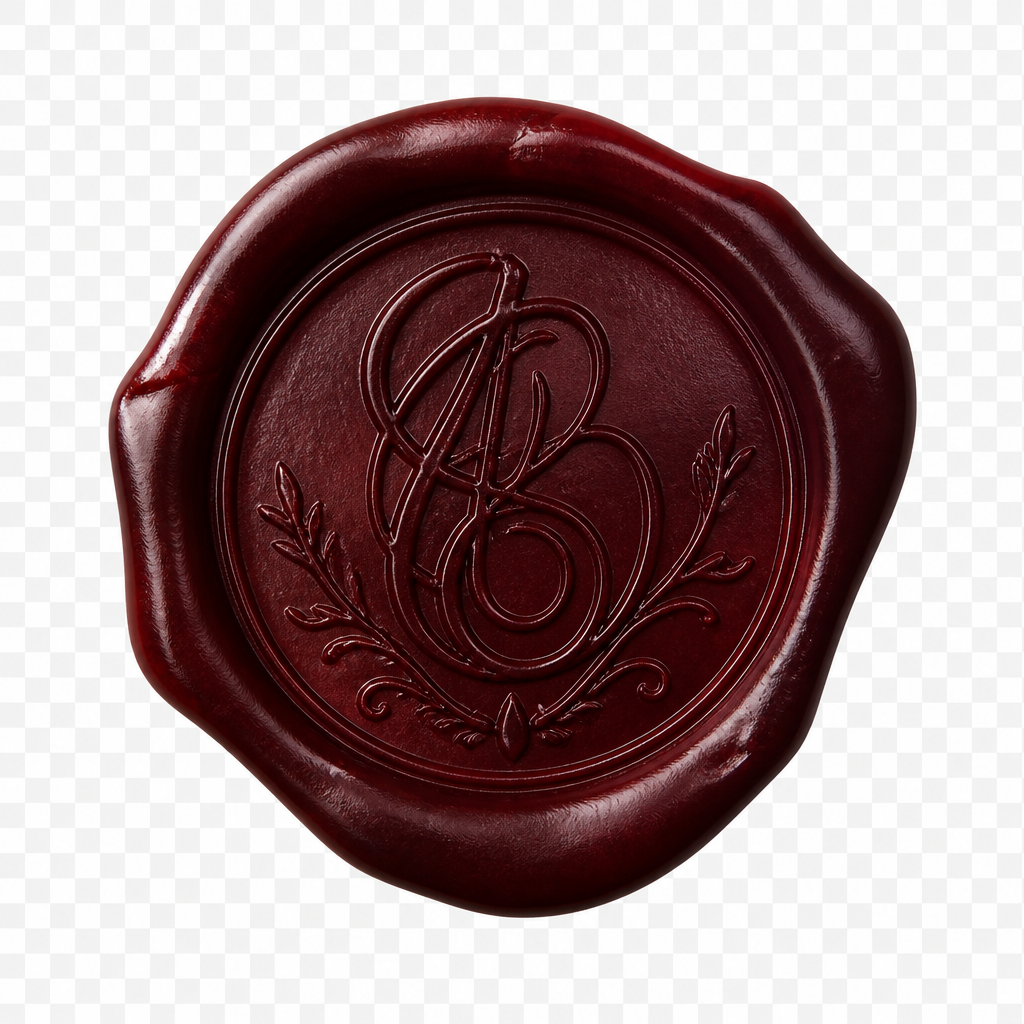
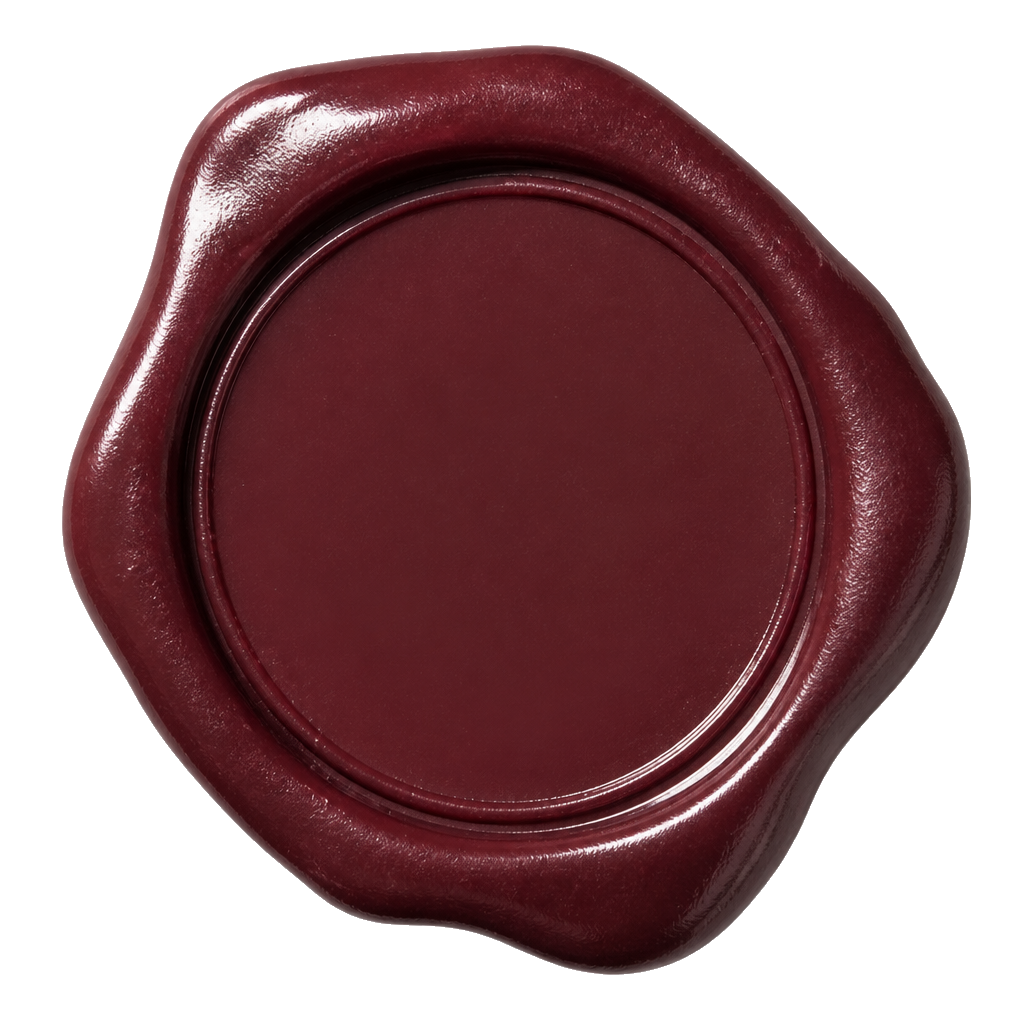
Made changes to Ui

diff --git a/src/style.css b/src/style.css
@@ -126,20 +126,14 @@ body.envelope-locked .floral {
   inset: 0;
   z-index: -1;
   background:
-    radial-gradient(ellipse at 50% 18%, rgba(184, 148, 94, 0.22), transparent 42%),
-    radial-gradient(ellipse at 20% 80%, rgba(122, 75, 82, 0.45), transparent 50%),
-    radial-gradient(ellipse at 80% 70%, rgba(86, 49, 56, 0.5), transparent 45%),
-    linear-gradient(165deg, #2a151a 0%, #563138 38%, #3d2228 68%, #1f1014 100%);
+    radial-gradient(ellipse at 50% 18%, rgba(128, 20, 30, 0.45), transparent 48%),
+    radial-gradient(ellipse at 18% 82%, rgba(60, 0, 8, 0.95), transparent 48%),
+    radial-gradient(ellipse at 82% 72%, rgba(30, 0, 6, 0.9), transparent 45%),
+    linear-gradient(165deg, #5a0012 0%, #3c0008 40%, #2a0006 70%, #1a0004 100%);
 }
 
 .envelope-intro::before {
-  content: '';
-  position: absolute;
-  inset: 0;
-  z-index: 0;
-  pointer-events: none;
-  background:
-    linear-gradient(180deg, rgba(30, 14, 18, 0.35) 0%, transparent 40%, rgba(30, 14, 18, 0.45) 100%);
+  content: none;
 }
 
 .envelope-intro__header,
@@ -397,37 +391,63 @@ body.envelope-locked .floral {
   left: 50%;
   top: 60%;
   z-index: 7;
-  width: 62px;
-  height: 62px;
-  border-radius: 50%;
-  transform: translate(-50%, -50%);
-  background: radial-gradient(circle at 32% 28%, #a15f68 0%, #7a4b52 42%, #4a282e 100%);
-  box-shadow:
-    0 8px 16px rgba(0, 0, 0, 0.4),
-    inset 0 1px 0 rgba(255, 255, 255, 0.22),
-    inset 0 -3px 8px rgba(0, 0, 0, 0.25);
-  transition: opacity 0.3s ease, transform 0.4s ease;
-}
-
-.letter__seal::before {
-  content: '';
-  position: absolute;
-  inset: 7px;
-  border-radius: 50%;
-  border: 1px dashed rgba(247, 239, 232, 0.4);
-}
-
-.letter__seal::after {
-  content: 'I&D';
-  position: absolute;
-  inset: 0;
+  width: 78px;
+  height: 78px;
   display: grid;
   place-items: center;
-  font-family: var(--font-serif);
+  transform: translate(-50%, -50%) rotate(-8deg);
+  filter: drop-shadow(0 8px 14px rgba(0, 0, 0, 0.4));
+  transition: opacity 0.3s ease, transform 0.4s ease;
+  background: none;
+  border-radius: 0;
+  box-shadow: none;
+}
+
+.letter__seal::before,
+.letter__seal::after {
+  content: none;
+  display: none;
+}
+
+.letter__seal-img {
+  position: absolute;
+  inset: 0;
+  width: 100%;
+  height: 100%;
+  object-fit: contain;
+  pointer-events: none;
+}
+
+.letter__seal-mono {
+  position: relative;
+  z-index: 1;
+  width: 48%;
+  height: 48%;
+  pointer-events: none;
+}
+
+.letter__seal-mono-letter {
+  position: absolute;
+  font-family: var(--font-script);
+  font-weight: 400;
+  line-height: 0.75;
+  color: #f3e6dc;
+  text-shadow: 0 1px 1px rgba(0, 0, 0, 0.4);
+}
+
+/* Match HA seal: first letter upper-left, second lower-right, overlapping */
+.letter__seal-mono-letter--i {
+  top: 16%;
+  left: 18%;
   font-size: 0.72rem;
-  font-weight: 700;
-  letter-spacing: 0.04em;
-  color: #f7efe8;
+  transform: rotate(-18deg);
+}
+
+.letter__seal-mono-letter--d {
+  right: 22%;
+  bottom: 14%;
+  font-size: 0.82rem;
+  transform: rotate(6deg);
 }
 
 /* Stands open and tips back past vertical, showing its inner face. */
@@ -439,7 +459,7 @@ body.envelope-locked .floral {
 
 .envelope-intro.is-open .letter__seal {
   opacity: 0;
-  transform: translate(-50%, -50%) scale(0.7);
+  transform: translate(-50%, -50%) rotate(-8deg) scale(0.7);
   pointer-events: none;
 }
 
@@ -763,6 +783,14 @@ a {
   align-items: stretch;
   max-width: 22rem;
   margin-inline: auto;
+}
+
+.hero__rsvp-note {
+  margin: 1rem 0 0;
+  font-size: clamp(0.85rem, 2.2vw, 0.95rem);
+  letter-spacing: 0.04em;
+  line-height: 1.45;
+  color: rgba(255, 250, 245, 0.88);
 }
 
 /* -----------------------------------------------------------------------------

diff --git a/index.html b/index.html
@@ -8,7 +8,9 @@
       content="Jemputan majlis perkahwinan Muhammad Danish & Nur Yasmin Imanina. Sahkan kehadiran anda di sini."
     />
     <meta name="theme-color" content="#7a4b52" />
-    <title>Walimatulurus | Muhammad Danish & Nur Yasmin Imanina</title>
+    <title>Walimatulurus | Nur Yasmin Imanina & Muhammad Danish</title>
+    <link rel="icon" href="/favicon.png" type="image/png" sizes="any" />
+    <link rel="apple-touch-icon" href="/apple-touch-icon.png" />
     <link rel="preconnect" href="https://fonts.googleapis.com" />
     <link rel="preconnect" href="https://fonts.gstatic.com" crossorigin />
     <link
@@ -115,7 +117,13 @@
 
           <!-- Layer 6: florals resting on the front, and the wax seal -->
           <img class="letter__florals" src="images/floral-decoration.png" alt="" />
-          <span class="letter__seal" aria-hidden="true"></span>
+          <span class="letter__seal" aria-hidden="true">
+            <img class="letter__seal-img" src="images/wax-seal.png" alt="" />
+            <span class="letter__seal-mono">
+              <span class="letter__seal-mono-letter letter__seal-mono-letter--i">I</span>
+              <span class="letter__seal-mono-letter letter__seal-mono-letter--d">D</span>
+            </span>
+          </span>
         </div>
       </button>
 
@@ -163,6 +171,9 @@
           <a class="btn btn--primary" href="#rsvp">Sahkan Kehadiran</a>
           <a class="btn btn--outline" href="#lokasi">Lihat Lokasi</a>
         </div>
+        <p class="hero__rsvp-note fade-in">
+          Sahkan RSVP anda sebelum 6 November 2026
+        </p>
       </div>
     </header>
 
@@ -216,6 +227,11 @@
             <article class="invitation-detail">
               <h3 class="invitation-detail__label">Waktu</h3>
               <p class="invitation-detail__value" id="event-time">11:00 pagi – 4:00 petang</p>
+            </article>
+
+            <article class="invitation-detail">
+              <h3 class="invitation-detail__label">Waktu bersanding</h3>
+              <p class="invitation-detail__value" id="event-bersanding">12:00 tengah hari</p>
             </article>
 
             <article class="invitation-detail">

diff --git a/src/main.js b/src/main.js
@@ -50,6 +50,7 @@ export const weddingConfig = {
     day: 'Sabtu',
     startTime: '11:00 pagi',
     endTime: '4:00 petang',
+    bersandingTime: '12:00 tengah hari',
     venue: 'Orchid Event Space Larkin',
     address:
       'Level 4, Larkin Junction Mall, Jalan Larkin Perdana 2, Taman Larkin Perdana, 80350 Johor Bahru, Johor',
@@ -78,6 +79,11 @@ function applyWeddingConfig(config) {
   const eventTime = document.getElementById('event-time');
   if (eventTime) {
     eventTime.textContent = `${config.event.startTime} – ${config.event.endTime}`;
+  }
+
+  const bersanding = document.getElementById('event-bersanding');
+  if (bersanding && config.event.bersandingTime) {
+    bersanding.textContent = config.event.bersandingTime;
   }
 
   const eventVenue = document.getElementById('event-venue');
